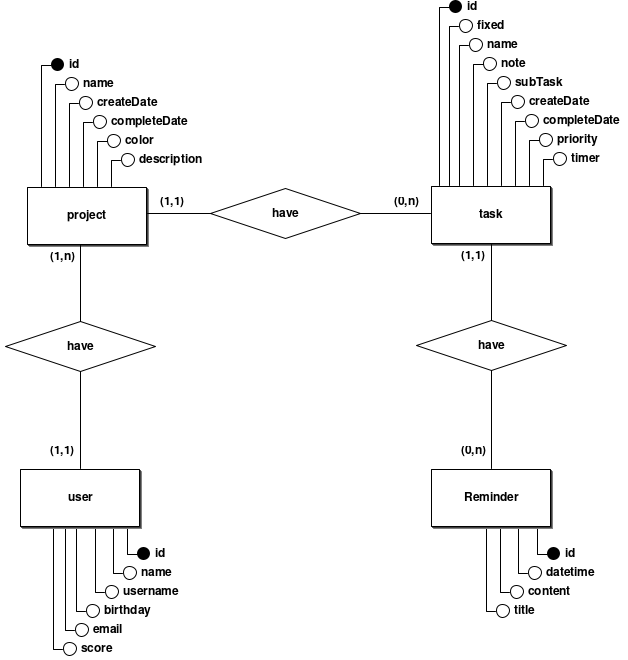
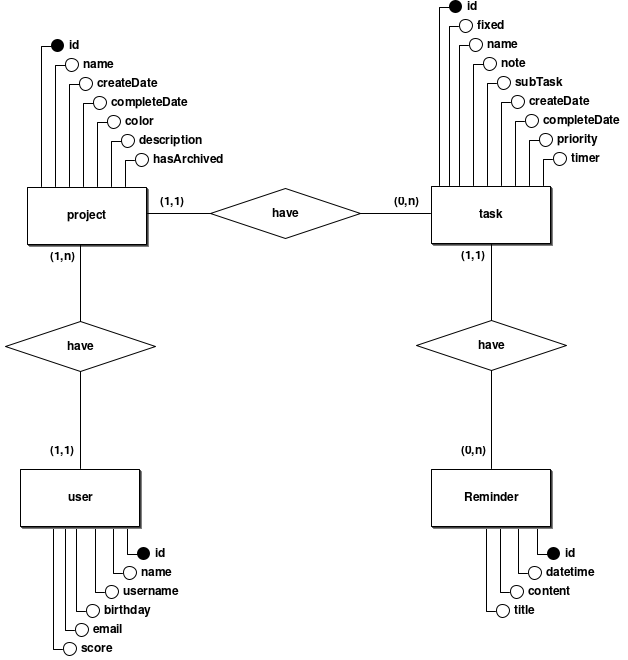
:memo: Add "hasArchived" attribute in "project" entity #6

Changed region(s): [[0.0605, 0.0606, 0.3631, 0.2727]]

diff --git a/Taskiano/docs/doc-modelos.md b/Taskiano/docs/doc-modelos.md
@@ -18,7 +18,7 @@ A entidade usuário armazena somente informações cruciais para a descrição d
 
 ### Entidade: Project(Projeto)
 
-Um projeto é utilizado para agrupar tarefas com uma finalidade em comum, para que o usuário possa dividir em grupos menores suas pendências e objetivos, e para que possa encontrar mais facilmente tarefas correlacionadas. Ela armazena atributos como nome, descrição e cor. O objetivo da cor é para que seja possível criar categorias em que o usuário possa, visivelmente, classificar os projetos. Como exemplo, um conjunto de projetos destinados a faculdade, com finalidades diferentes.
+Um projeto é utilizado para agrupar tarefas com uma finalidade em comum, para que o usuário possa dividir em grupos menores suas pendências e objetivos, e para que possa encontrar mais facilmente tarefas correlacionadas. Ela armazena atributos como nome, descrição e cor. O objetivo da cor é para que seja possível criar categorias em que o usuário possa, visivelmente, classificar os projetos. Como exemplo, um conjunto de projetos destinados a faculdade, com finalidades diferentes. Também é possível arquivar um projeto, para mantê-lo no sistema, sem a necessidade de exclui-lo.
 
 ### Entidade: Task(Tarefa)
 
@@ -52,6 +52,7 @@ Dicionário de dados centraliza informações sobre o conjunto de dados (dataset
 | description  |  NN   | VARCHAR[280] |   280   | Descrição do projeto.                          |
 | createDate   |  NN   |     DATE     |    3    | Data formato (XX/XX/XXXX).                     |
 | completeDate |  NN   |     DATE     |    3    | Data formato (XX/XX/XXXX).                     |
+| hasArchived  |  NN   |   BOOLEAN    |    1    | Identificador de status de projeto.            |
 | color        |  NN   |  VARCHAR[6]  |    4    | Código Hexadecimal da cor do projeto (RRGGBB). |
 | user_id      |  FK   |   NUMERIC    |    4    | Chave para um usuário.                         |
 